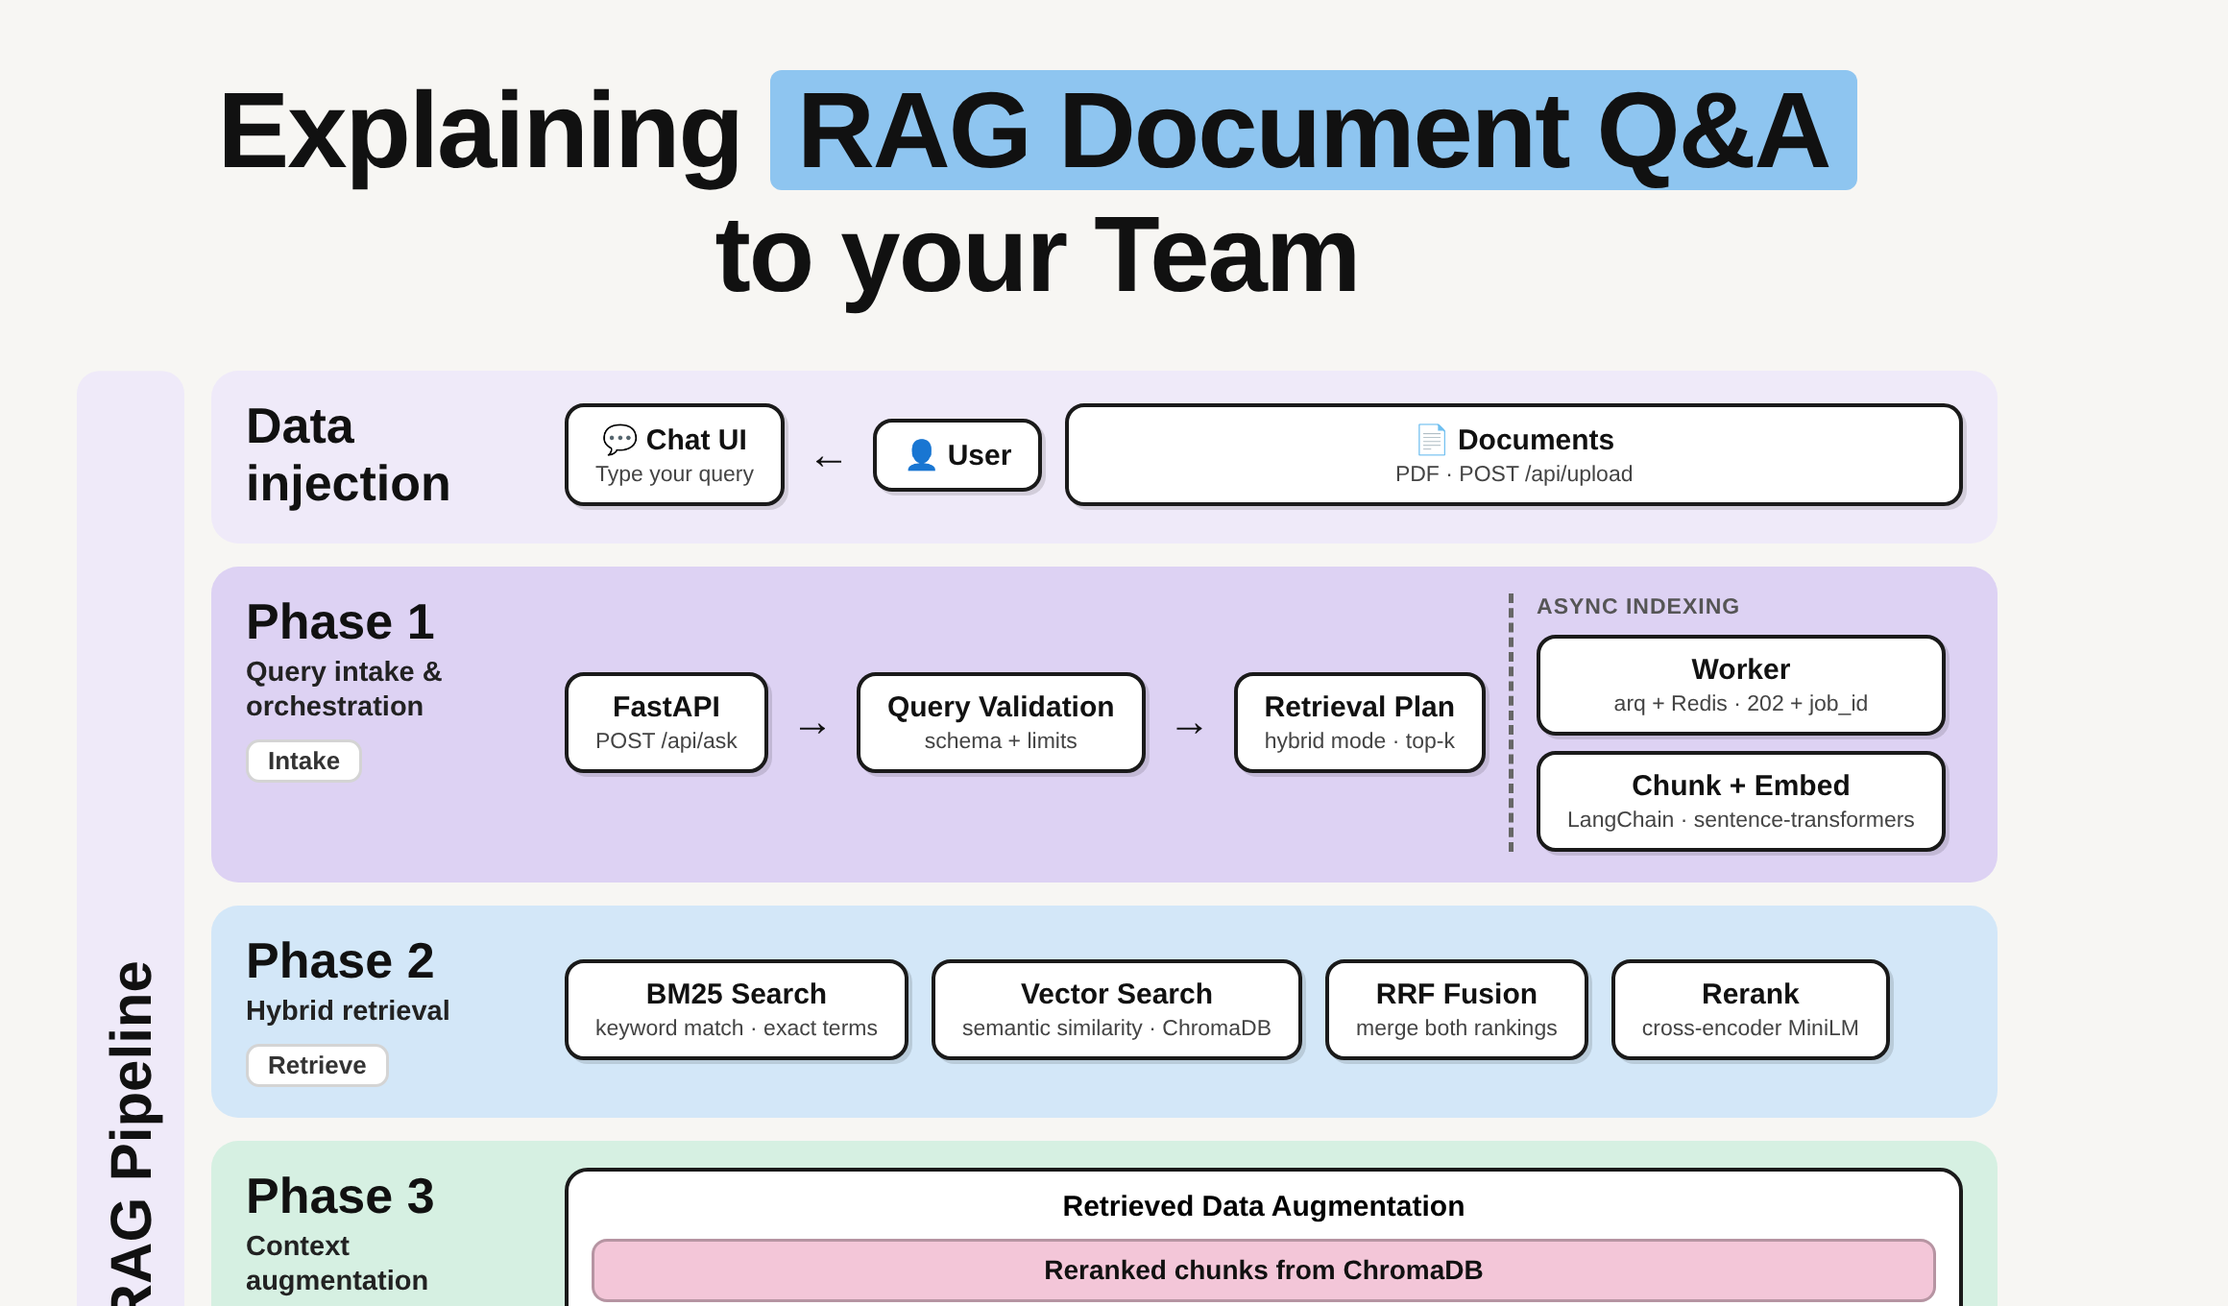
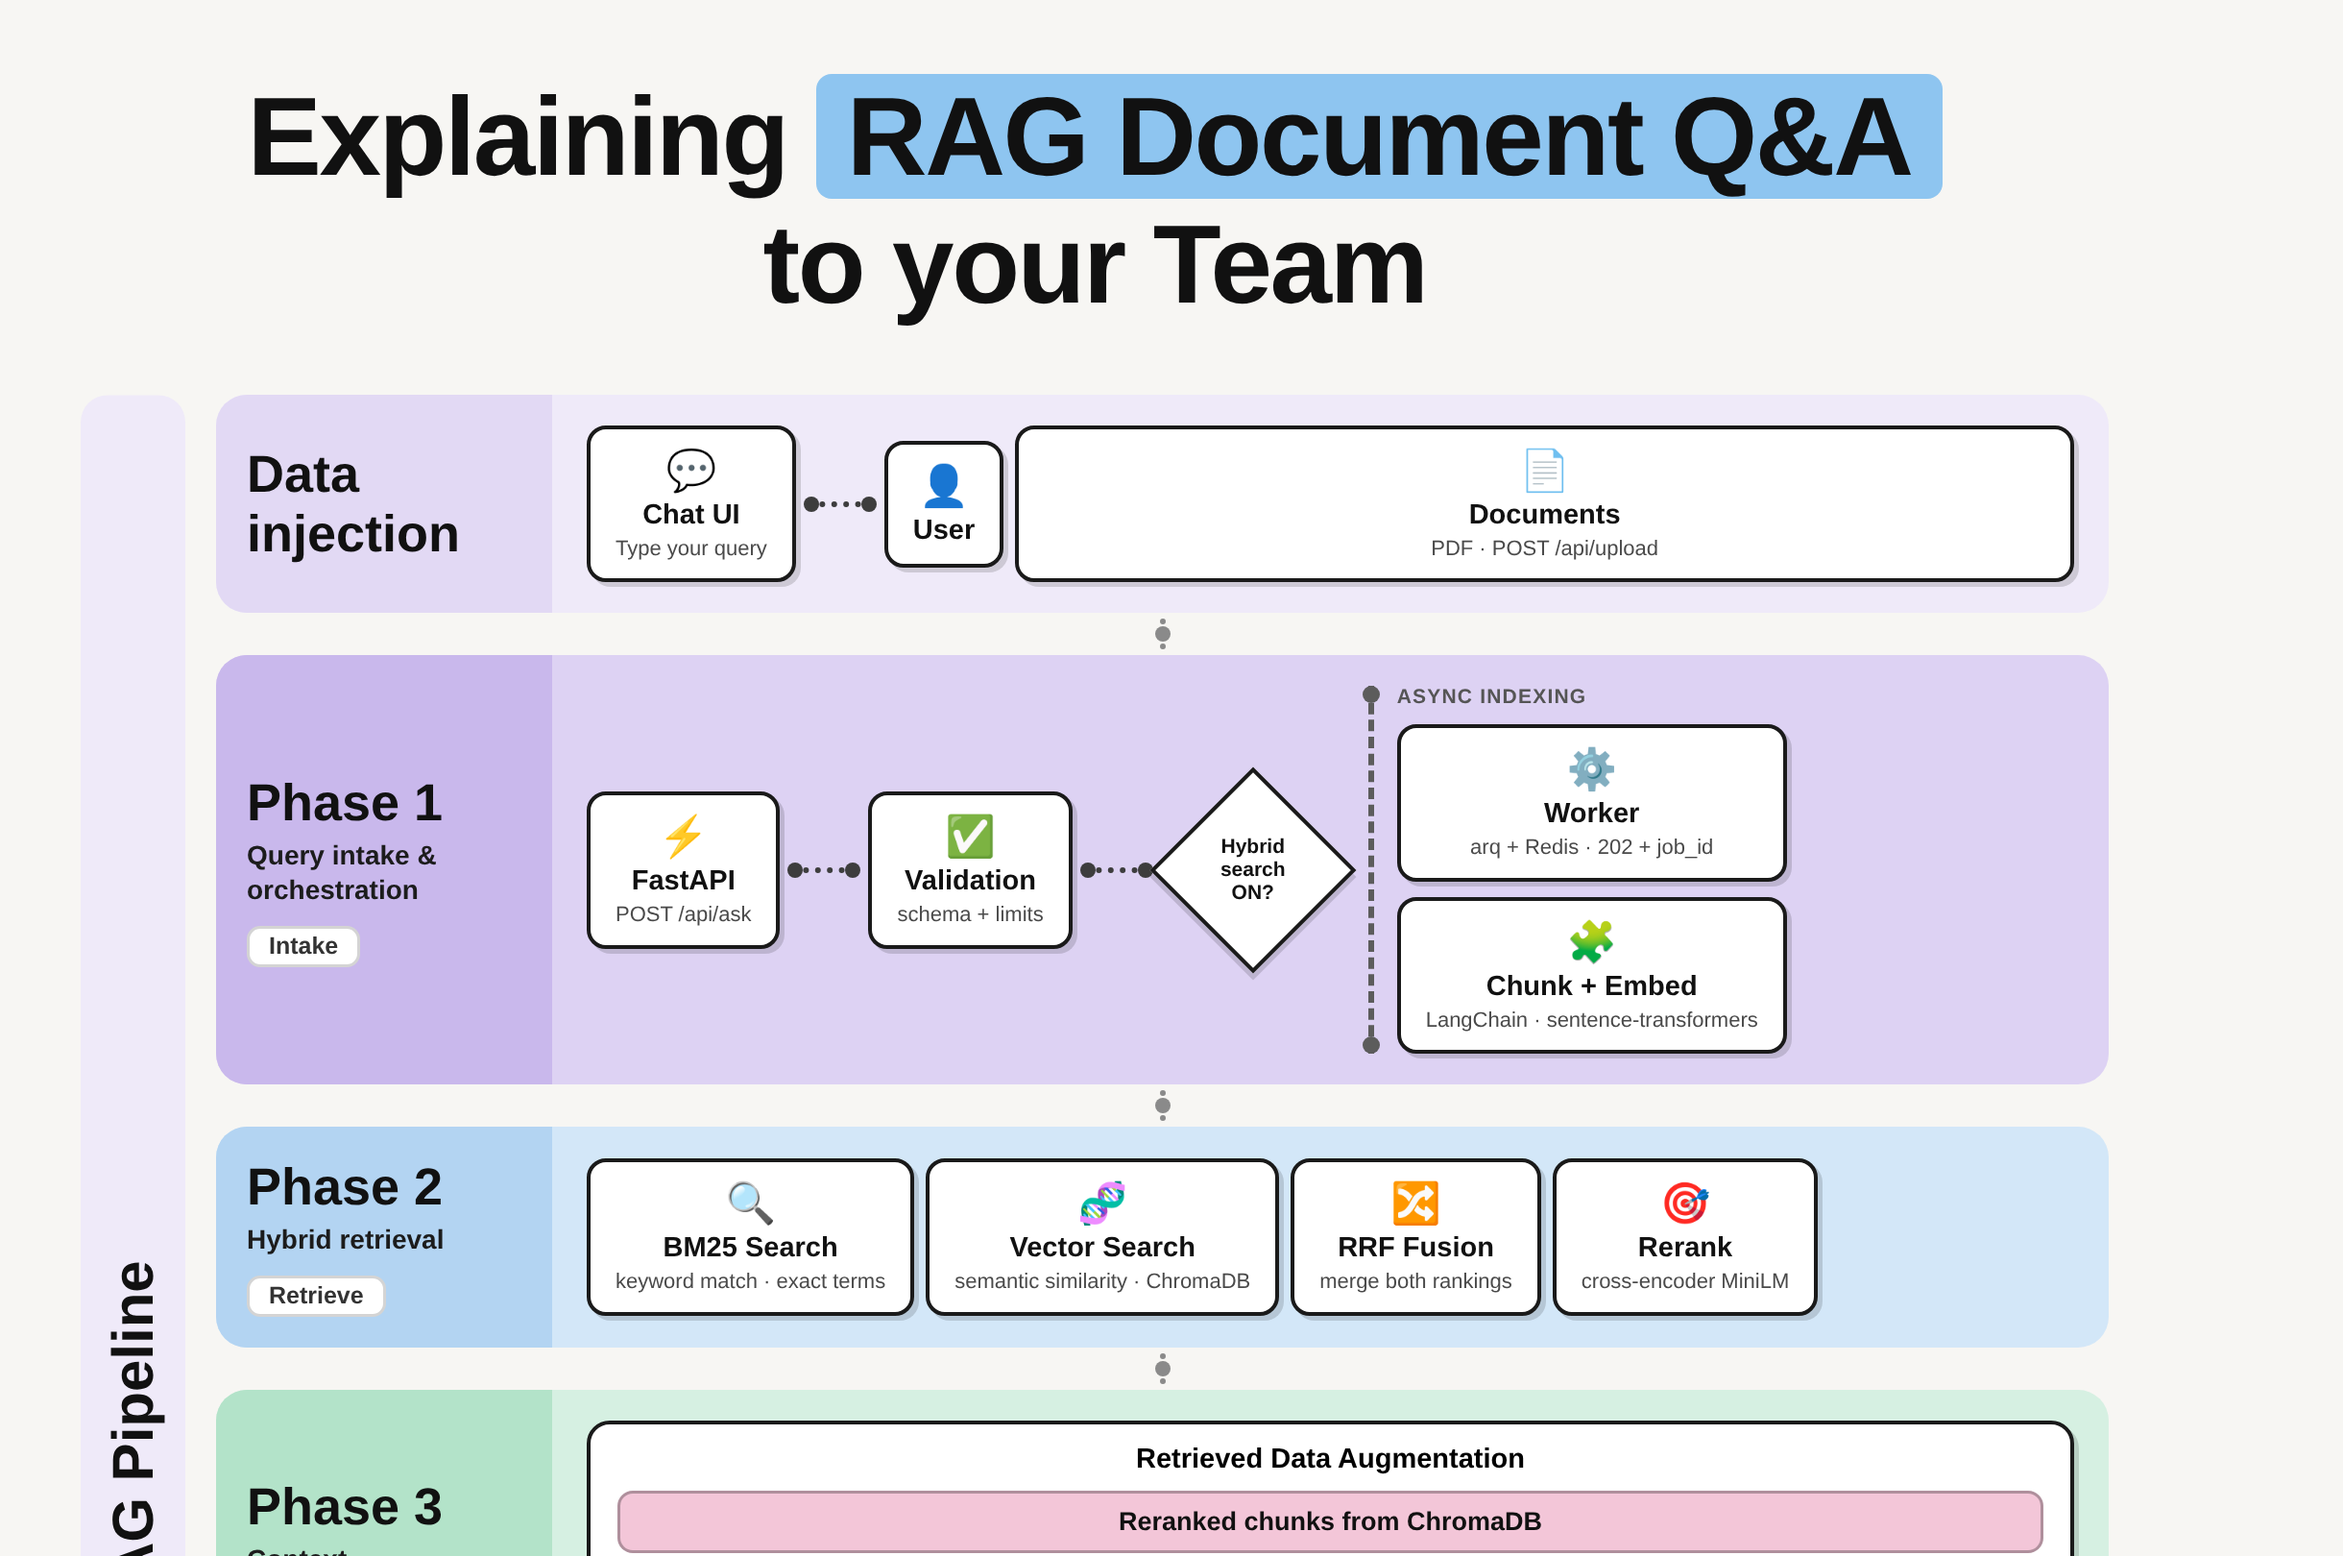
docs: refine infographic style — two-tone bands, dotted connectors, decision diamond
Closer to the reference style: saturated phase-label columns, dotted
connectors with joint dots, HYBRID_SEARCH decision diamond, icons in
every box, dashed side lanes for async indexing and quality loop.

diff --git a/docs/rag-infographic.html b/docs/rag-infographic.html
@@ -7,20 +7,21 @@
   body {
     font-family: -apple-system, "Segoe UI", Roboto, Helvetica, Arial, sans-serif;
     background: #f7f6f3;
-    padding: 36px 40px;
-    width: 1080px;
+    padding: 38px 42px;
+    width: 1140px;
   }
   h1 {
-    font-size: 56px;
+    font-size: 58px;
     font-weight: 800;
     text-align: center;
-    letter-spacing: -1px;
+    letter-spacing: -1.2px;
     color: #111;
     line-height: 1.15;
-    margin-bottom: 28px;
+    margin-bottom: 34px;
   }
-  h1 .hl { background: #8ec5f0; padding: 0 14px; border-radius: 6px; }
-  .layout { display: flex; gap: 14px; }
+  h1 .hl { background: #8ec5f0; padding: 0 16px; border-radius: 8px; }
+
+  .layout { display: flex; gap: 16px; }
   .side-rail {
     writing-mode: vertical-rl;
     transform: rotate(180deg);
@@ -29,100 +30,207 @@
     font-weight: 800;
     color: #111;
     background: #efeaf9;
-    border-radius: 12px;
-    padding: 20px 8px;
+    border-radius: 14px;
+    padding: 24px 10px;
     display: flex;
     align-items: center;
     justify-content: center;
-    gap: 16px;
+    gap: 18px;
   }
-  .side-rail .robot { transform: rotate(90deg); font-size: 34px; }
-  .main { flex: 1; display: flex; flex-direction: column; gap: 12px; }
+  .side-rail .robot { transform: rotate(90deg); font-size: 36px; }
 
+  .main { flex: 1; display: flex; flex-direction: column; position: relative; }
+
+  /* ---------- bands (two-tone) ---------- */
   .band {
-    border-radius: 14px;
-    padding: 14px 18px 16px;
+    border-radius: 16px;
     display: flex;
-    gap: 16px;
+    overflow: hidden;
   }
-  .band .phase-label { width: 150px; flex-shrink: 0; }
-  .band .phase-label h2 { font-size: 26px; font-weight: 800; color: #111; }
-  .band .phase-label p { font-size: 14.5px; font-weight: 600; color: #222; margin-top: 2px; line-height: 1.25; }
+  .band .phase-label {
+    width: 175px;
+    flex-shrink: 0;
+    padding: 16px 16px;
+    display: flex;
+    flex-direction: column;
+    justify-content: center;
+  }
+  .band .phase-label h2 { font-size: 27px; font-weight: 800; color: #111; }
+  .band .phase-label p { font-size: 14px; font-weight: 600; color: #1c1c1c; margin-top: 3px; line-height: 1.3; }
   .pill {
     display: inline-block;
     background: #fff;
     border: 1.5px solid #d4d4d4;
     border-radius: 7px;
-    font-size: 13px;
-    font-weight: 600;
+    font-size: 12.5px;
+    font-weight: 700;
     padding: 2px 10px;
-    margin-top: 8px;
+    margin-top: 9px;
     color: #333;
+    width: fit-content;
   }
-  .band .content { flex: 1; display: flex; align-items: center; gap: 12px; flex-wrap: wrap; }
+  .band .content {
+    flex: 1;
+    display: flex;
+    align-items: center;
+    gap: 6px;
+    padding: 16px 18px;
+    flex-wrap: wrap;
+  }
 
+  .b-inject  { background: #efeaf9; } .b-inject  .phase-label { background: #e2d9f4; }
+  .b-p1 { background: #ddd2f3; }      .b-p1 .phase-label { background: #c9b8ec; }
+  .b-p2 { background: #d3e7f8; }      .b-p2 .phase-label { background: #b3d4f2; }
+  .b-p3 { background: #d6f0e2; }      .b-p3 .phase-label { background: #b3e3c9; }
+  .b-p4 { background: #fadfe8; }      .b-p4 .phase-label { background: #f4c3d5; }
+  .b-out { background: #efeaf9; }     .b-out  .phase-label { background: #e2d9f4; }
+
+  /* ---------- boxes ---------- */
   .box {
     background: #fff;
     border: 2px solid #1a1a1a;
     border-radius: 10px;
-    padding: 8px 14px;
-    font-size: 15px;
+    padding: 9px 13px;
+    font-size: 14.5px;
     font-weight: 700;
     color: #111;
     text-align: center;
-    box-shadow: 2px 2px 0 rgba(0,0,0,.12);
+    box-shadow: 2.5px 2.5px 0 rgba(0,0,0,.14);
   }
-  .box small { display: block; font-size: 11.5px; font-weight: 500; color: #444; margin-top: 2px; }
-  .arrow { font-size: 22px; font-weight: 800; color: #111; }
-  .arrow.down { text-align: center; font-size: 24px; line-height: 1; margin: -6px 0; }
+  .box .ico { display: block; font-size: 21px; margin-bottom: 3px; }
+  .box small { display: block; font-size: 11px; font-weight: 500; color: #4a4a4a; margin-top: 2px; line-height: 1.25; }
+  .box.grow { flex: 1; }
 
-  .b-inject  { background: #efeaf9; }
-  .b-p1 { background: #ddd2f3; }
-  .b-p2 { background: #d3e7f8; }
-  .b-p3 { background: #d6f0e2; }
-  .b-p4 { background: #fadfe8; }
-  .b-out { background: #efeaf9; }
+  /* ---------- dotted connectors with joints ---------- */
+  .conn {
+    width: 34px;
+    height: 0;
+    border-top: 3px dotted #3d3d3d;
+    position: relative;
+    flex-shrink: 0;
+  }
+  .conn::before, .conn::after {
+    content: "";
+    position: absolute;
+    top: -5.5px;
+    width: 8px; height: 8px;
+    background: #3d3d3d;
+    border-radius: 50%;
+  }
+  .conn::before { left: -2px; }
+  .conn::after { right: -2px; }
 
+  .vconn {
+    width: 0;
+    height: 16px;
+    border-left: 3px dotted #8a8a8a;
+    margin: 3px auto;
+    position: relative;
+  }
+  .vconn::after {
+    content: "";
+    position: absolute;
+    left: -5.5px;
+    top: 4px;
+    width: 8px; height: 8px;
+    background: #8a8a8a;
+    border-radius: 50%;
+  }
+
+  /* ---------- diamond ---------- */
+  .diamond-wrap { width: 96px; height: 96px; display: flex; align-items: center; justify-content: center; flex-shrink: 0; }
+  .diamond {
+    width: 76px; height: 76px;
+    background: #fff;
+    border: 2px solid #1a1a1a;
+    transform: rotate(45deg);
+    display: flex; align-items: center; justify-content: center;
+    box-shadow: 2.5px 2.5px 0 rgba(0,0,0,.14);
+  }
+  .diamond span {
+    transform: rotate(-45deg);
+    font-size: 10.5px;
+    font-weight: 700;
+    text-align: center;
+    line-height: 1.15;
+    color: #111;
+  }
+
+  /* ---------- augmentation stack ---------- */
   .stack {
     background: #fff;
     border: 2px solid #1a1a1a;
     border-radius: 12px;
-    padding: 10px 12px;
+    padding: 10px 14px 12px;
     flex: 1;
-    min-width: 380px;
+    box-shadow: 2.5px 2.5px 0 rgba(0,0,0,.14);
   }
-  .stack .title { text-align: center; font-size: 15px; font-weight: 700; margin-bottom: 8px; }
+  .stack .title { text-align: center; font-size: 14.5px; font-weight: 700; margin-bottom: 8px; }
   .stack .bar {
     border-radius: 8px;
     text-align: center;
-    font-size: 14px;
+    font-size: 13.5px;
     font-weight: 700;
     padding: 7px 10px;
     margin-bottom: 6px;
     color: #111;
-    border: 1.5px solid rgba(0,0,0,.25);
+    border: 1.5px solid rgba(0,0,0,.28);
   }
   .stack .bar:last-child { margin-bottom: 0; }
   .bar.pink { background: #f3c6d8; }
   .bar.blue { background: #bcd9f5; }
   .bar.yellow { background: #fbe7b2; }
 
+  /* ---------- side dashed lanes ---------- */
   .dashed-side {
-    border-left: 2.5px dashed #666;
+    border-left: 3px dashed #5c5c5c;
     padding-left: 12px;
+    margin-left: 6px;
     display: flex;
     flex-direction: column;
     gap: 8px;
     justify-content: center;
+    position: relative;
   }
-  .dashed-side .cap { font-size: 11.5px; font-weight: 600; color: #555; text-transform: uppercase; letter-spacing: .5px; }
+  .dashed-side::before, .dashed-side::after {
+    content: "";
+    position: absolute;
+    left: -6px;
+    width: 9px; height: 9px;
+    background: #5c5c5c;
+    border-radius: 50%;
+  }
+  .dashed-side::before { top: 0; }
+  .dashed-side::after { bottom: 0; }
+  .dashed-side .cap { font-size: 10.5px; font-weight: 700; color: #555; text-transform: uppercase; letter-spacing: .6px; }
 
-  .row { display: flex; gap: 12px; align-items: stretch; flex: 1; }
-  .col { display: flex; flex-direction: column; gap: 10px; }
-  .grow { flex: 1; }
+  /* ---------- right feedback loop ---------- */
+  .loop {
+    position: absolute;
+    right: 6px;
+    top: 0;
+    bottom: 0;
+    width: 0;
+    border-left: 3px dashed #7a7a7a;
+    z-index: 0;
+  }
+  .loop-label {
+    position: absolute;
+    right: -8px;
+    top: 50%;
+    transform: rotate(90deg) translateX(-50%);
+    transform-origin: right center;
+    font-size: 11.5px;
+    font-weight: 700;
+    color: #666;
+    letter-spacing: .4px;
+    white-space: nowrap;
+  }
+  .band { position: relative; z-index: 1; }
+
   .footer {
     text-align: center;
-    margin-top: 18px;
+    margin-top: 20px;
     font-size: 13px;
     color: #666;
     font-weight: 600;
@@ -134,20 +242,22 @@
 <h1>Explaining <span class="hl">RAG Document Q&amp;A</span><br>to your Team</h1>
 
 <div class="layout">
-  <div class="side-rail"><span class="robot">&#129302;</span> RAG Pipeline</div>
+  <div class="side-rail">RAG Pipeline</div>
 
   <div class="main">
 
     <!-- Data injection -->
     <div class="band b-inject">
-      <div class="phase-label"><h2>Data injection</h2></div>
+      <div class="phase-label"><h2>Data<br>injection</h2></div>
       <div class="content">
-        <div class="box">&#128172; Chat UI<small>Type your query</small></div>
-        <span class="arrow">&larr;</span>
-        <div class="box">&#128100; User</div>
-        <div class="box grow">&#128196; Documents<small>PDF &middot; POST /api/upload</small></div>
+        <div class="box"><span class="ico">&#128172;</span>Chat UI<small>Type your query</small></div>
+        <div class="conn"></div>
+        <div class="box"><span class="ico">&#128100;</span>User</div>
+        <div class="box grow"><span class="ico">&#128196;</span>Documents<small>PDF &middot; POST /api/upload</small></div>
       </div>
     </div>
+
+    <div class="vconn"></div>
 
     <!-- Phase 1 -->
     <div class="band b-p1">
@@ -157,18 +267,20 @@
         <span class="pill">Intake</span>
       </div>
       <div class="content">
-        <div class="box">FastAPI<small>POST /api/ask</small></div>
-        <span class="arrow">&rarr;</span>
-        <div class="box">Query Validation<small>schema + limits</small></div>
-        <span class="arrow">&rarr;</span>
-        <div class="box">Retrieval Plan<small>hybrid mode &middot; top-k</small></div>
+        <div class="box"><span class="ico">&#9889;</span>FastAPI<small>POST /api/ask</small></div>
+        <div class="conn"></div>
+        <div class="box"><span class="ico">&#9989;</span>Validation<small>schema + limits</small></div>
+        <div class="conn"></div>
+        <div class="diamond-wrap"><div class="diamond"><span>Hybrid<br>search<br>ON?</span></div></div>
         <div class="dashed-side">
           <span class="cap">Async indexing</span>
-          <div class="box">Worker<small>arq + Redis &middot; 202 + job_id</small></div>
-          <div class="box">Chunk + Embed<small>LangChain &middot; sentence-transformers</small></div>
+          <div class="box"><span class="ico">&#9881;&#65039;</span>Worker<small>arq + Redis &middot; 202 + job_id</small></div>
+          <div class="box"><span class="ico">&#129513;</span>Chunk + Embed<small>LangChain &middot; sentence-transformers</small></div>
         </div>
       </div>
     </div>
+
+    <div class="vconn"></div>
 
     <!-- Phase 2 -->
     <div class="band b-p2">
@@ -178,12 +290,14 @@
         <span class="pill">Retrieve</span>
       </div>
       <div class="content">
-        <div class="box">BM25 Search<small>keyword match &middot; exact terms</small></div>
-        <div class="box">Vector Search<small>semantic similarity &middot; ChromaDB</small></div>
-        <div class="box">RRF Fusion<small>merge both rankings</small></div>
-        <div class="box">Rerank<small>cross-encoder MiniLM</small></div>
+        <div class="box"><span class="ico">&#128269;</span>BM25 Search<small>keyword match &middot; exact terms</small></div>
+        <div class="box"><span class="ico">&#129516;</span>Vector Search<small>semantic similarity &middot; ChromaDB</small></div>
+        <div class="box"><span class="ico">&#128256;</span>RRF Fusion<small>merge both rankings</small></div>
+        <div class="box"><span class="ico">&#127919;</span>Rerank<small>cross-encoder MiniLM</small></div>
       </div>
     </div>
+
+    <div class="vconn"></div>
 
     <!-- Phase 3 -->
     <div class="band b-p3">
@@ -202,6 +316,8 @@
       </div>
     </div>
 
+    <div class="vconn"></div>
+
     <!-- Phase 4 -->
     <div class="band b-p4">
       <div class="phase-label">
@@ -210,23 +326,27 @@
         <span class="pill">Generate</span>
       </div>
       <div class="content">
-        <div class="box">LLM Generation<small>OpenRouter / OpenAI</small></div>
-        <div class="box">Answer + Citations<small>grounded in sources</small></div>
-        <div class="box">Feedback &plusmn;1<small>tuning dataset &middot; /api/feedback</small></div>
+        <div class="box"><span class="ico">&#129302;</span>LLM Generation<small>OpenRouter / OpenAI</small></div>
+        <div class="conn"></div>
+        <div class="box"><span class="ico">&#128196;</span>Answer + Citations<small>grounded in sources</small></div>
+        <div class="conn"></div>
+        <div class="box"><span class="ico">&#128077;</span>Feedback &plusmn;1<small>tuning dataset</small></div>
         <div class="dashed-side">
           <span class="cap">Quality loop</span>
-          <div class="box">Langfuse<small>traces &middot; tokens &middot; latency</small></div>
-          <div class="box">RAGAS<small>faithfulness &middot; golden dataset</small></div>
+          <div class="box"><span class="ico">&#128202;</span>Langfuse<small>traces &middot; tokens &middot; latency</small></div>
+          <div class="box"><span class="ico">&#128200;</span>RAGAS<small>faithfulness &middot; golden dataset</small></div>
         </div>
       </div>
     </div>
+
+    <div class="vconn"></div>
 
     <!-- Output -->
     <div class="band b-out">
       <div class="phase-label"><h2>Output</h2></div>
       <div class="content">
         <div class="box grow">Generated answer according to query (with source citations)</div>
-        <div class="box">Trace + scores<small>Langfuse &middot; RAGAS report</small></div>
+        <div class="box"><span class="ico">&#128202;</span>Trace + scores<small>Langfuse &middot; RAGAS report</small></div>
       </div>
     </div>
 
